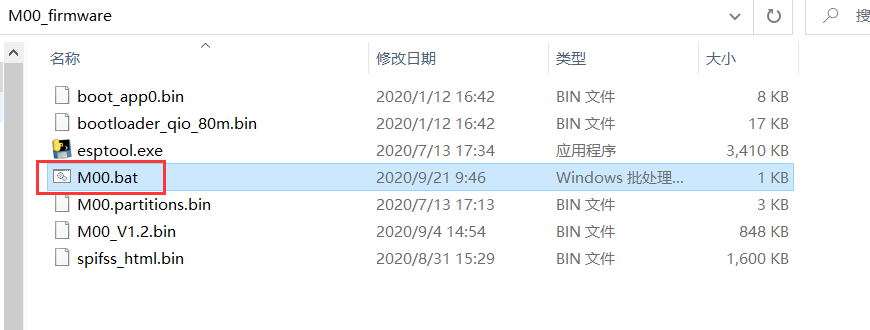
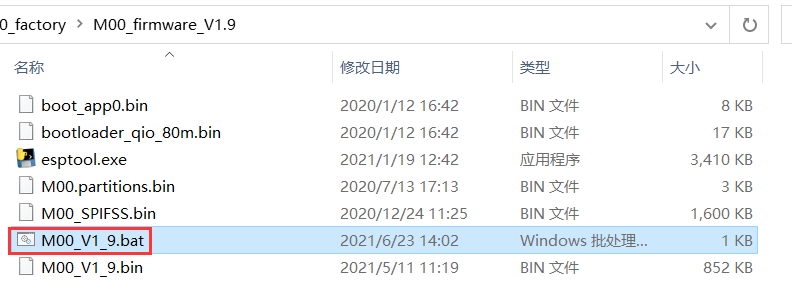
Update HT_M00 relevant documents

diff --git a/zh_CN/source/gateway/ht-m00/update_firmware.md b/zh_CN/source/gateway/ht-m00/update_firmware.md
@@ -43,9 +43,11 @@
 
 ## HT-M00固件覆盖处理方法
 
-下载[HT-M00固件](https://resource.heltec.cn/download/HT-M00/firmware/M00_firmware_V1.4.zip)。
+### 下载及烧录固件
 
-打开下载好的文件，编辑"M00.bat"文件。
+下载[HT-M00完整固件](https://resource.heltec.cn/download/HT-M00/firmware/complete_firmware)。
+
+打开下载好的文件，编辑"M00_Vx_x.bat"文件。
 
 ![](img/update_firmware/05.png)
 
@@ -53,13 +55,25 @@
 
 ![](img/update_firmware/06.png)
 
-修改完成后双击运行"M00.bat"，完成网关固件烧录。
+修改完成后双击运行"M00_Vx_x.bat"，完成网关固件烧录。
 
-M00重新刷新固件后串口打印显示没有激活的情况。请参考这篇帖子:
+### 激活网关
 
-[http://community.heltec.cn/t/solved-restoring-esp32-chip-license-to-ht-m00-flash-memory/2676](http://community.heltec.cn/t/solved-restoring-esp32-chip-license-to-ht-m00-flash-memory/2676)
+固件烧录完成后，打开HT-M00对应的串口，读取网关相应ESP32芯片ID。
 
-```Tip:: 此固件版本为V1.4，可根据"固件升级"方法对固件进行升级。
+![](img/update_firmware/07.png)
+
+进入[https://resource.heltec.cn/search](https://resource.heltec.cn/search)，输入ESP32芯片ID查询网关对应序列号。
+
+![](img/update_firmware/08.png)
+
+打开HT-M00对应的串口，通过串口发送命令"AT+CDKEY=xxxxxxxxxxxxxxxxxxxxxxxxxxxxxxxx"激活网关。其中"xxxxxxxxxxxxxxxxxxxxxxxxxxxxxxxx"为查询到的32位license。
+
+![](img/update_firmware/09.png)
+
+待显示屏正常显示后，表示网关激活成功。
+
+```Tip:: 对于较低版本的固件，可根据"固件升级"方法对固件进行升级。
 
 ```
 
